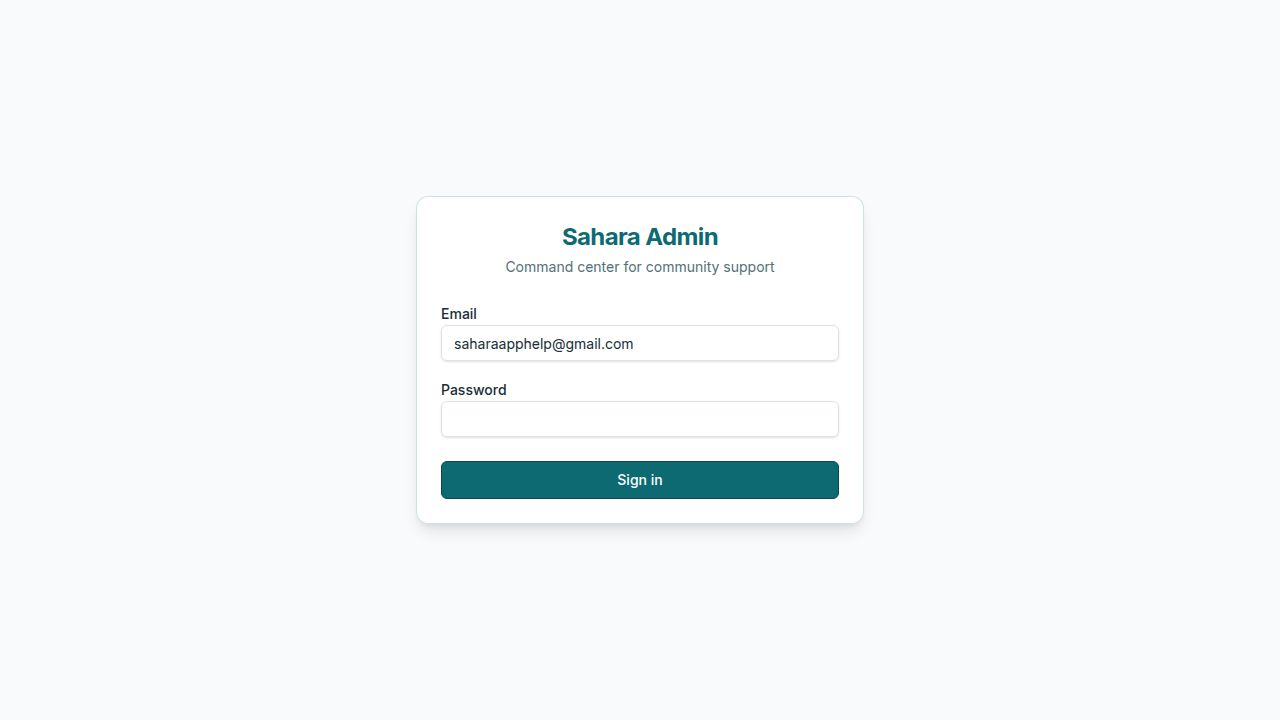
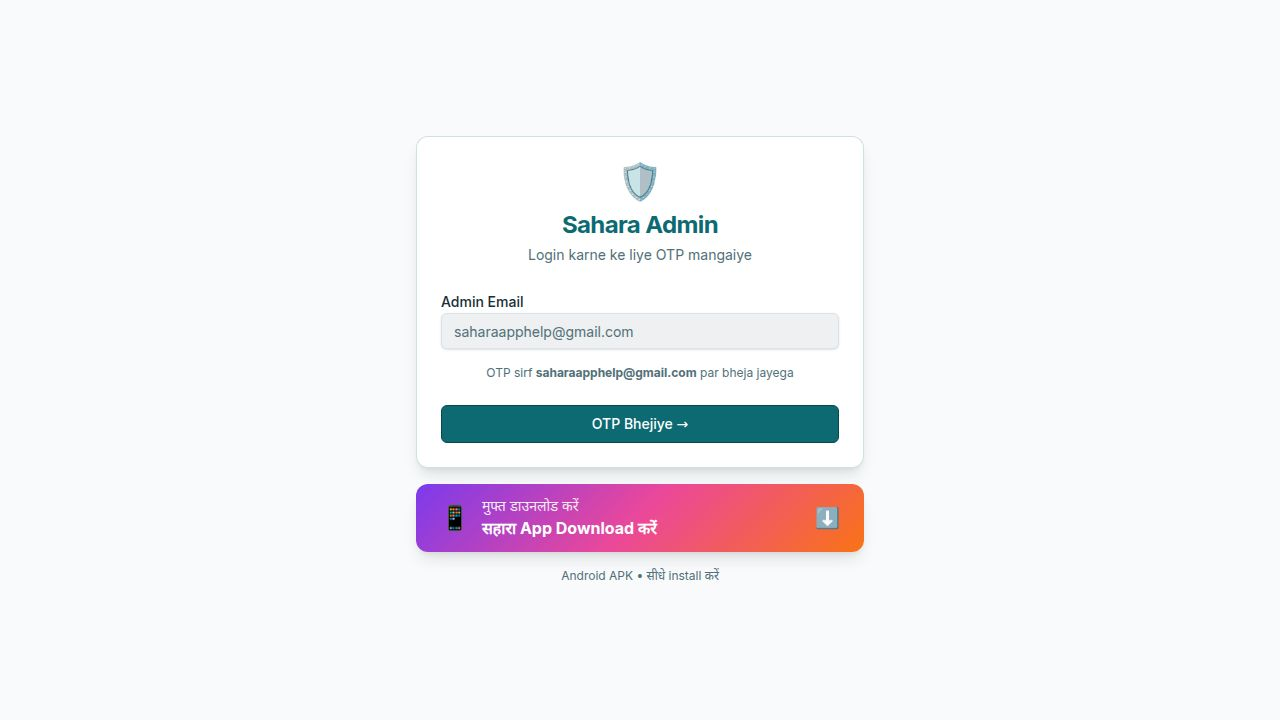
Add download button to mobile app login screen
Adds a download button to the mobile app's login screen (AuthGate.tsx) with associated styles and functionality to open the download URL via Linking.

Replit-Commit-Author: Agent
Replit-Commit-Session-Id: c0e05246-6e3f-4d6f-88fb-65dbe33c2803
Replit-Commit-Checkpoint-Type: full_checkpoint
Replit-Commit-Event-Id: 5caed5dc-a3ba-47a5-8622-ef8697655112
Replit-Commit-Screenshot-Url: https://storage.googleapis.com/screenshot-production-us-central1/ad892b4d-6dbf-4ffd-be4d-d740f8fbee6e/c0e05246-6e3f-4d6f-88fb-65dbe33c2803/r0qImyG
Replit-Helium-Checkpoint-Created: true

Changed region(s): [[0.3125, 0.3972, 0.6875, 0.825], [0.4062, 0.3056, 0.5938, 0.3972], [0.4688, 0.2139, 0.5312, 0.275]]

diff --git a/artifacts/mobile/components/AuthGate.tsx b/artifacts/mobile/components/AuthGate.tsx
@@ -485,6 +485,26 @@ export function AuthGate({ children }: { children: React.ReactNode }) {
             )}
           </View>
 
+          <TouchableOpacity
+            style={styles.downloadBtn}
+            onPress={() => void Linking.openURL(`${API_BASE}/api/download/sahara-app`)}
+            activeOpacity={0.85}
+          >
+            <LinearGradient
+              colors={["#7c3aed", "#ec4899", "#f97316"]}
+              start={{ x: 0, y: 0 }}
+              end={{ x: 1, y: 0 }}
+              style={styles.downloadBtnGrad}
+            >
+              <Text style={styles.downloadBtnIcon}>📱</Text>
+              <View style={styles.downloadBtnTextCol}>
+                <Text style={styles.downloadBtnSub}>मुफ्त डाउनलोड करें</Text>
+                <Text style={styles.downloadBtnMain}>सहारा App Download करें</Text>
+              </View>
+              <Text style={styles.downloadBtnArrow}>⬇</Text>
+            </LinearGradient>
+          </TouchableOpacity>
+
           <Text style={styles.footer}>
             © Sahara · saharaapphelp.com
           </Text>
@@ -728,6 +748,29 @@ const styles = StyleSheet.create({
     backgroundColor: "#F3F4F6",
     marginBottom: 16,
   },
+
+  downloadBtn: {
+    marginTop: 20,
+    borderRadius: 16,
+    overflow: "hidden",
+    shadowColor: "#7c3aed",
+    shadowOpacity: 0.4,
+    shadowRadius: 12,
+    shadowOffset: { width: 0, height: 6 },
+    elevation: 10,
+  },
+  downloadBtnGrad: {
+    flexDirection: "row",
+    alignItems: "center",
+    paddingVertical: 14,
+    paddingHorizontal: 18,
+    gap: 12,
+  },
+  downloadBtnIcon: { fontSize: 26 },
+  downloadBtnTextCol: { flex: 1 },
+  downloadBtnSub: { fontSize: 11, color: "rgba(255,255,255,0.85)", fontWeight: "500" },
+  downloadBtnMain: { fontSize: 15, color: "#fff", fontWeight: "800" },
+  downloadBtnArrow: { fontSize: 20 },
 
   footer: {
     fontSize: 12,
